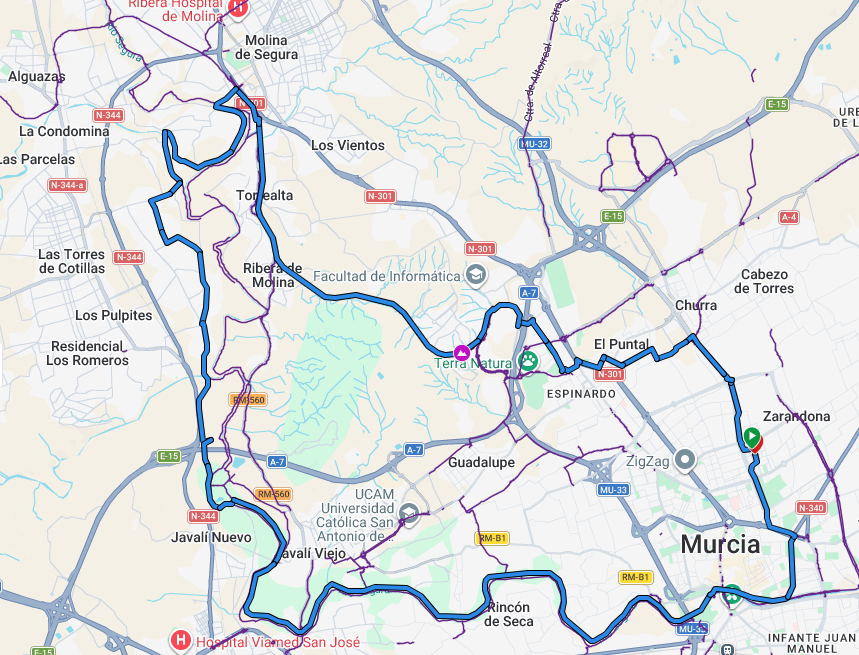
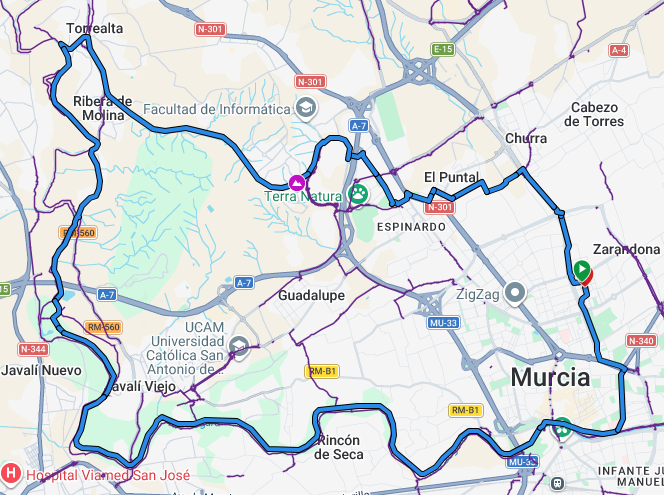
Actualizando ruta tras recortar kms

diff --git a/rutas/2026-03-01_campus-contraparada/index.html b/rutas/2026-03-01_campus-contraparada/index.html
@@ -347,11 +347,11 @@
   <div class="summary" id="inicio">
     <div class="summary-inner">
       <div class="summary-text">
-        <h1>Ruta cicloturista en familia: Campus – Contraparada – La Ñora</h1>
+        <h1>Ruta cicloturista en familia: Campus – Contraparada</h1>
         <p><strong>Fecha:</strong> 1 de marzo de 2026 · <strong>Salida:</strong> 9:30 (Plaza de Santiago, Murcia)</p>
-        <p><strong>Distancia:</strong> ~40 km  | <strong>Duración aproximada:</strong> 5 h en movimiento (~8 horas en total) <br>
-           <strong>Dificultad:</strong> Moderada | <strong>Ascenso total:</strong> ~186 m</p>
-        <p>Ruta cicloturista en familia (niños desde 7 años) para saborear la huerta y el Segura: Vía Verde del Noroeste y paradas emblemáticas en la Contraparada y la Rueda de la Ñora. Habrá paradas frecuentes para descansar, jugar y reponer fuerzas (incluida chocolatada). Lleva casco, agua, almuerzo y comida para todo el día, además de repuestos básicos. Existe una <strong>variante corta</strong> usando el tranvía para acortar kilómetros; ver detalle al final de la página.</p>
+        <p><strong>Distancia:</strong> ~33 km  | <strong>Duración aproximada:</strong> 4 h en movimiento (~7 horas en total) <br>
+           <strong>Dificultad:</strong> Moderada | <strong>Ascenso total:</strong> ~160 m</p>
+        <p>Ruta cicloturista en familia (niños desde 7 años) para saborear la huerta y el Segura: Vía Verde del Noroeste y paradas emblemáticas en la Contraparada y la Rueda de la Ñora. Habrá paradas frecuentes para descansar, jugar y reponer fuerzas (incluida chocolatada). Lleva casco, agua, almuerzo y comida para todo el día, además de repuestos básicos. Existe una <strong>variante corta (~17 km)</strong> usando el tranvía para acortar kilómetros; ver detalle al final de la página.</p>
         <div class="cta-row">
           <a class="btn" href="https://connect.garmin.com/modern/course/331705650" target="_blank" rel="noopener">Recorrido</a>
           <a class="btn secondary" href="#recorrido">Paradas</a>
@@ -374,10 +374,6 @@
         <div class="slide">
           <img src="img/huertos-molina.jpg" alt="Molina, caminos de huerta">
           <div class="caption">Molina y huerta</div>
-        </div>
-        <div class="slide">
-          <img src="img/torre-alguazas.jpg" alt="Torre Vieja de Alguazas">
-          <div class="caption">Torre Vieja de Alguazas</div>
         </div>
         <div class="slide">
           <img src="img/contraparada.jpg" alt="Contraparada">
@@ -474,22 +470,6 @@
     </div>
 
     <!-- Parada 4 -->
-    <div class="timeline-item" id="item-torre">
-      <div class="marker"></div>
-      <div class="content">
-        <div class="text">
-          <h3>Torre Vieja de Alguazas</h3>
-          <span class="time">12:45</span>
-          <p>Parada en la zona de juegos del centro social de Torrealta y foto junto a la <a href="https://patrimonio.alguazas.es/torre-alguazas.html" target="_blank" rel="noopener">Torre Vieja de Alguazas</a>.</p>
-          <img src="img/torre-alguazas.jpg" alt="Torre Vieja de Alguazas">
-        </div>
-        <div class="map-container">
-          <iframe width="425" height="350" src="https://www.openstreetmap.org/export/embed.html?bbox=-1.2317%2C38.0421%2C-1.2226%2C38.0476&amp;layer=mapnik&amp;marker=38.044855%2C-1.227137" style="border: 1px solid black"></iframe><br/><small><a href="https://www.openstreetmap.org/#map=18/38.044855/-1.227137">Ver el mapa más grande</a></small>
-        </div>
-      </div>
-    </div>
-
-    <!-- Parada 5 -->
     <div class="timeline-item" id="item-contraparada">
       <div class="marker"></div>
       <div class="content">
@@ -530,7 +510,7 @@
           <h3>Murcia (centro)</h3>
           <span class="time">18:00</span>
           <p>Regreso a Murcia y vuelta a Santiago y Zaraiche por el carril bici de Avda. Teniente Flomesta y Avda. de la Fama.</p>
-          <img src="img/puente-viejo.jpg" alt="Puente Viejo de Murcia">
+          <img src="img/puente-viejo.png" alt="Puente Viejo de Murcia">
         </div>
         <div class="map-container">
           <iframe width="425" height="350" src="https://www.openstreetmap.org/export/embed.html?bbox=-1.1370%2C37.9795%2C-1.1290%2C37.9858&amp;layer=mapnik&amp;marker=37.982727%2C-1.133491" style="border: 1px solid black"></iframe><br/><small><a href="https://www.openstreetmap.org/#map=17/37.982727/-1.133491">Ver el mapa más grande</a></small>
@@ -541,7 +521,7 @@
 
   <div class="history" style="margin-top: 0;" id="variante">
     <h2>Variante corta (con tranvía)</h2>
-    <p>Opción pensada para peques: usar el tranvía para recortar parte del recorrido y enlazar solo los tramos más seguros. Consulta y descarga el track:</p>
+    <p>Opción pensada para peques: usar el tranvía para recortar parte del recorrido y enlazar solo los tramos más seguros (aprox. 17 km). Consulta y descarga el track:</p>
     <div class="map-thumb">
       <a href="https://connect.garmin.com/modern/course/431707935" target="_blank" rel="noopener">
         <img src="img/ruta-corta-garmin-small.png" alt="Variante corta - vista previa">
